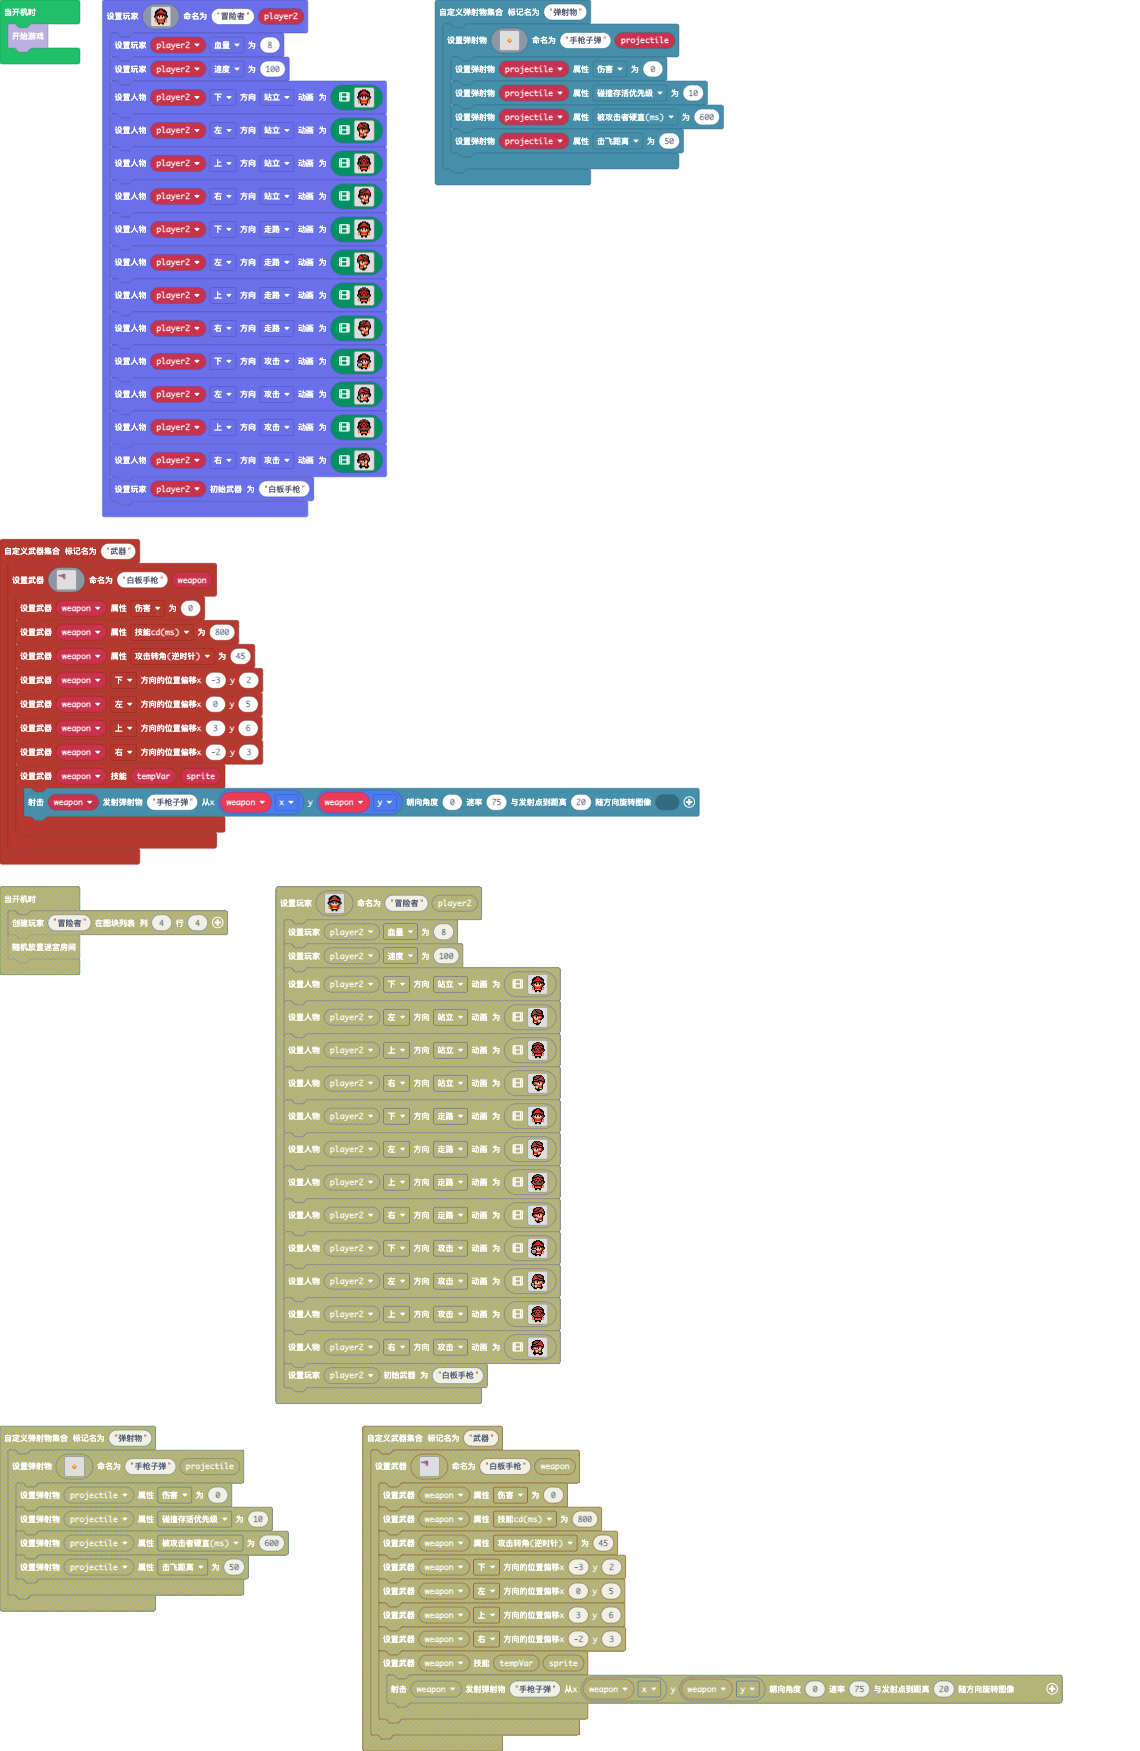
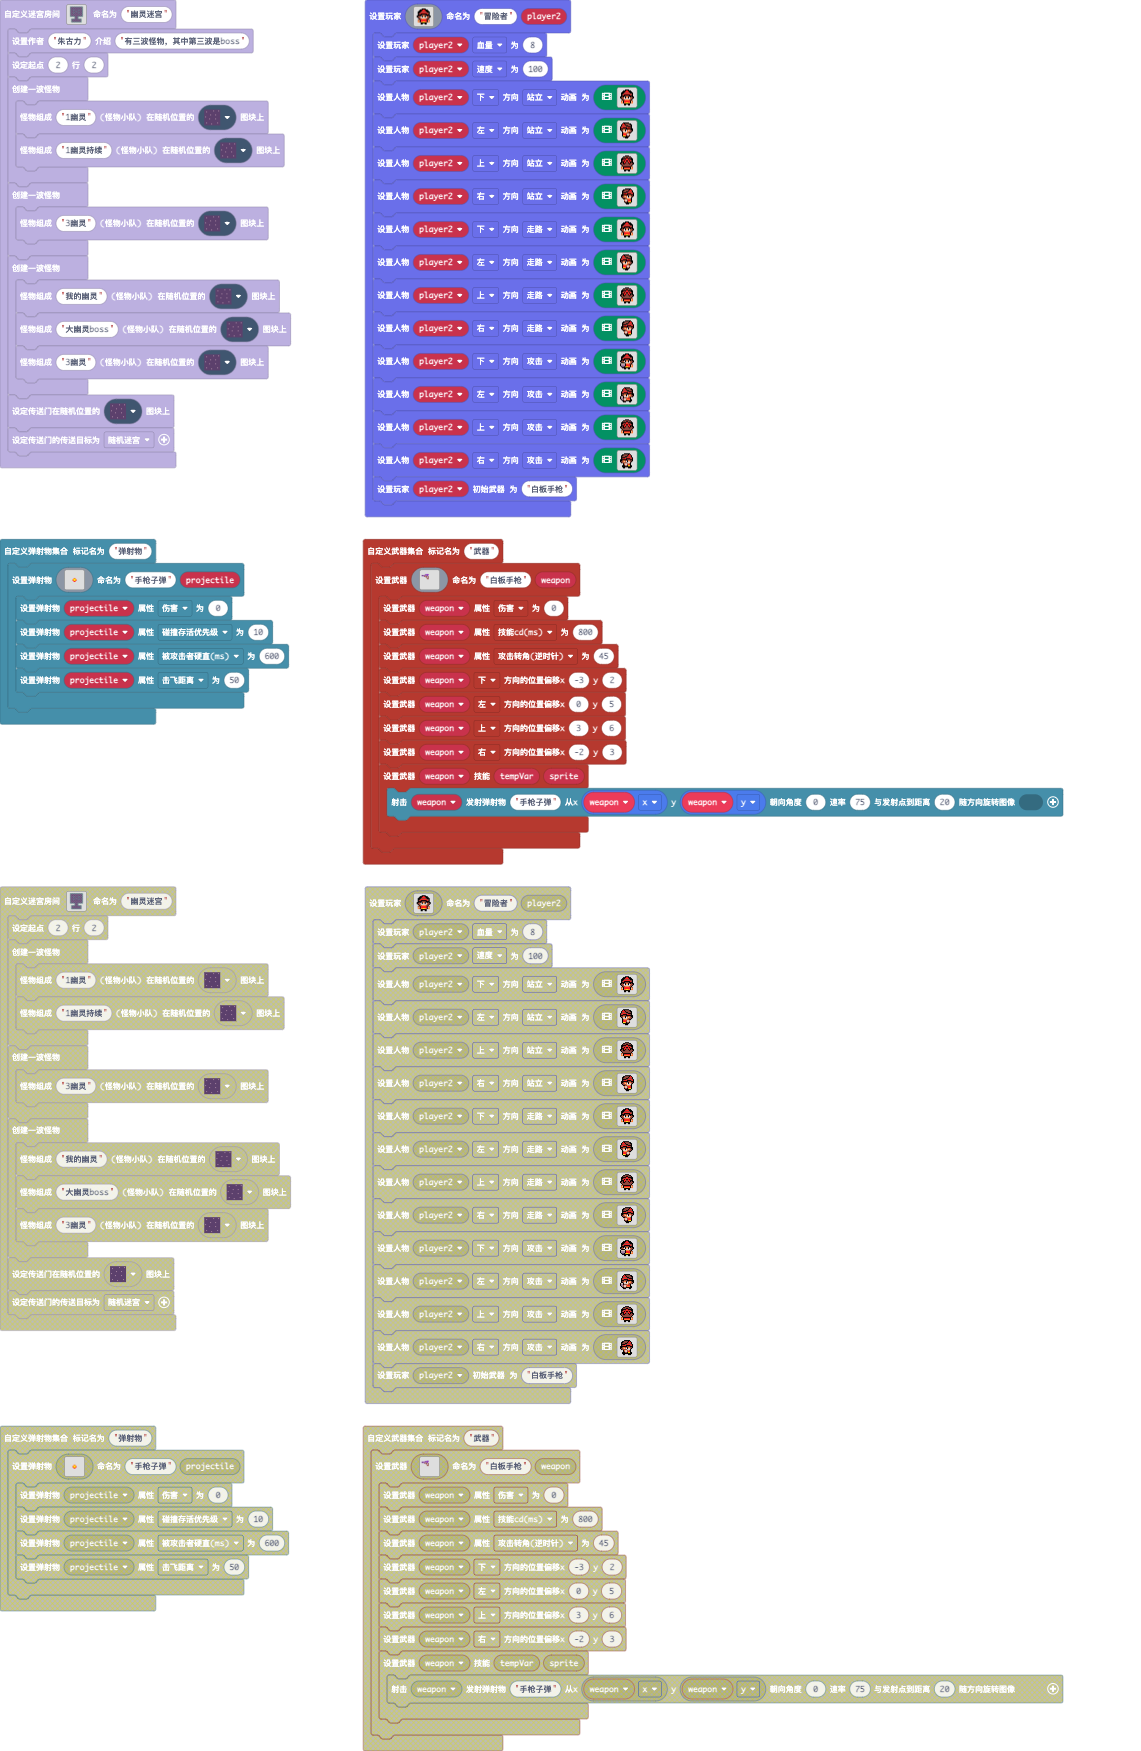
默认的prj为blocky

diff --git a/main.ts b/main.ts
@@ -1,4 +1,5 @@
 Maze.setMaze(tilemap`幽灵迷宫`, "幽灵迷宫", function () {
+    Maze.setMazeInfo("朱古力", "有三波怪物，其中第三波是boss")
     Maze.bornPlaceCR(2, 2)
     Maze.setMazeMonsters(function () {
         Maze.setMonstersMembers2("1幽灵", sprites.dungeon.darkGroundCenter)

diff --git a/playground_helpers.ts b/playground_helpers.ts
@@ -40,8 +40,8 @@ namespace playground_helpers {
     }
 
     function gamestart (character: string) {
-        Maze.newRandomMaze()
         Player.createPlayer(character, 2, 2)
+        Maze.newRandomMaze()
     }
 
     //%block="开始游戏"
